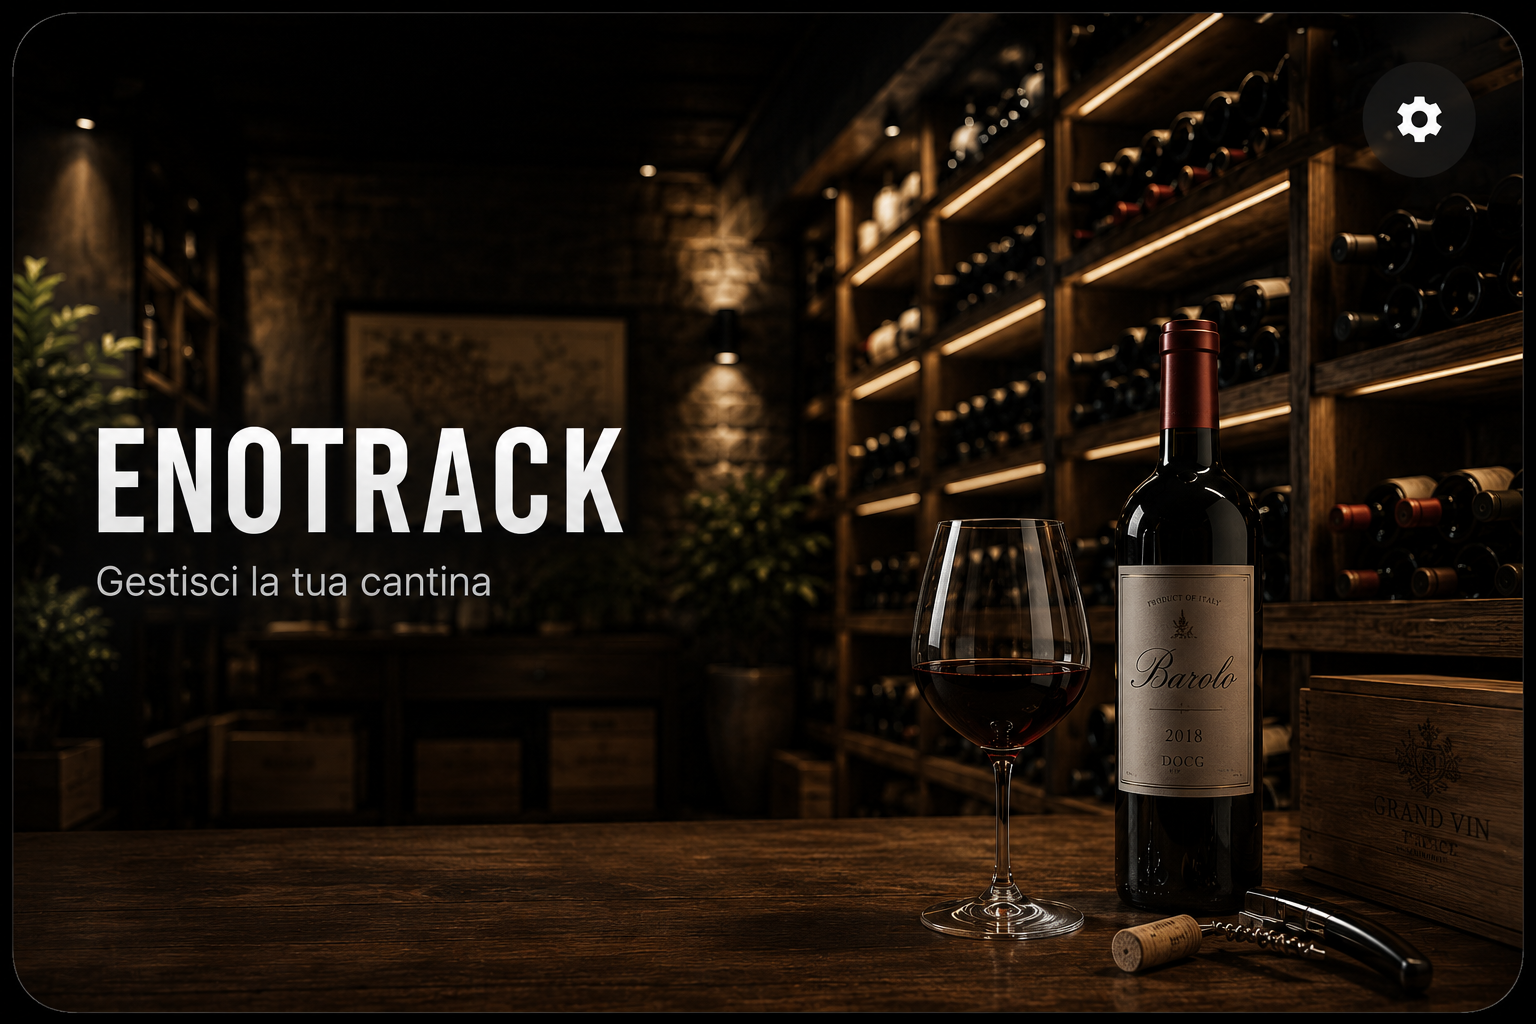
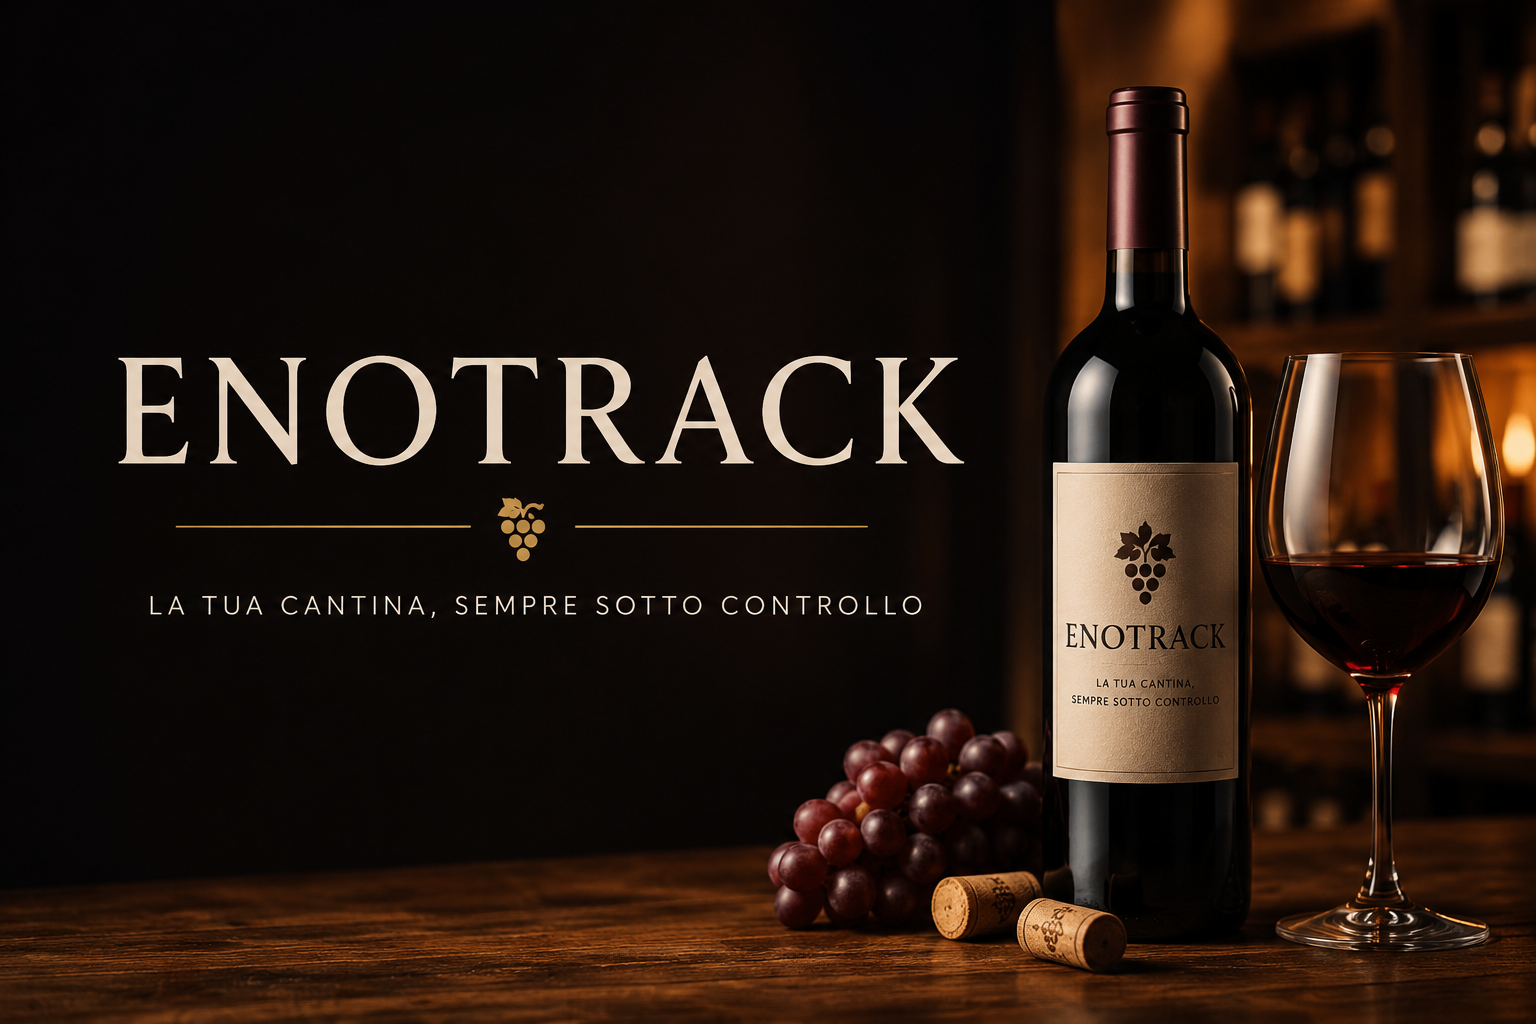
Release v1.5

diff --git a/lib/screens/category/category_screen.dart b/lib/screens/category/category_screen.dart
@@ -20,6 +20,26 @@ class CategoryScreen extends ConsumerWidget {
       subCategoriesProvider(category.id),
     );
 
+    if (subCategories.isEmpty) {
+      WidgetsBinding.instance.addPostFrameCallback((_) {
+        Navigator.pushReplacement(
+          context,
+          MaterialPageRoute(
+            builder: (_) => WineListScreen(
+              categoryId: category.id,
+              title: category.nome,
+            ),
+          ),
+        );
+      });
+
+      return const Scaffold(
+        body: Center(
+          child: CircularProgressIndicator(),
+        ),
+      );
+    }
+
     return Scaffold(
       appBar: AppBar(
         title: Text(category.nome),
@@ -47,6 +67,8 @@ class CategoryScreen extends ConsumerWidget {
                   return SubCategoryTile(
                     title: sub.nome,
                     onTap: () {
+                      print("Apro ${sub.nome}");
+
                       Navigator.push(
                         context,
                         MaterialPageRoute(

diff --git a/lib/services/subcategory_service.dart b/lib/services/subcategory_service.dart
@@ -3,6 +3,7 @@ import '../models/subcategory.dart';
 class SubCategoryService {
   List<WineSubCategory> getSubCategories() {
     return const [
+
       // Rossi
       WineSubCategory(
         id: 'italiani',